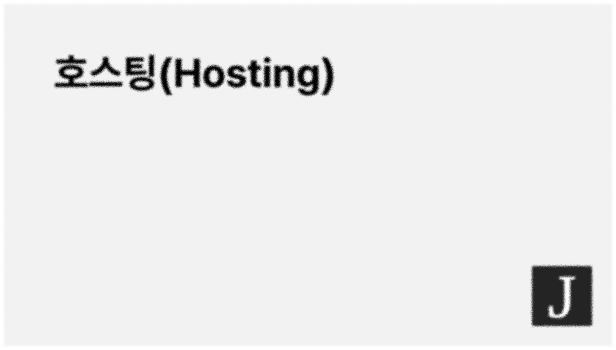
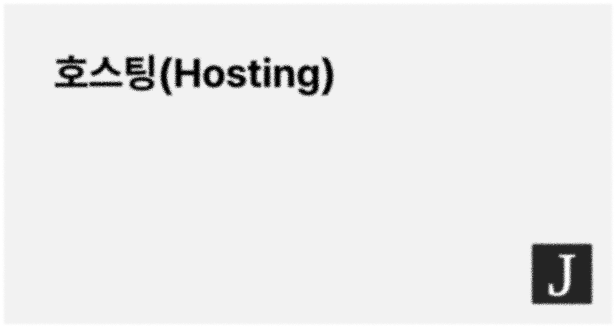
fix: 썸네일 이미지 크기 수정

Changed region(s): [[0.0617, 0.1524, 0.5552, 0.3049], [0.8636, 0.7317, 0.987, 0.8232], [0.8636, 0.8537, 0.9562, 0.9451]]

diff --git a/dist-server/entry-server.js b/dist-server/entry-server.js
@@ -1,7 +1,7 @@
 import { renderToString } from "react-dom/server";
-import { Link, NavLink, Outlet, RouterProvider, createMemoryRouter, useLocation, useParams } from "react-router";
+import { Link, NavLink, Outlet, RouterProvider, createMemoryRouter, useParams } from "react-router";
 import { Fragment, jsx, jsxs } from "react/jsx-runtime";
-import { useLayoutEffect, useMemo, useState } from "react";
+import { useMemo, useState } from "react";
 import ReactMarkdown from "react-markdown";
 import rehypeHighlight from "rehype-highlight";
 //#region src/components/layout/Footer.tsx
@@ -66,20 +66,8 @@ function RootLayout() {
 	] });
 }
 //#endregion
-//#region content/javascript/js-closure.md?raw
-var js_closure_default = "---\r\ntitle: 클로저(Closure) 정리\r\ndescription: 자바스크립트 클로저 개념 이해\r\ndate: 2026-04-01\r\ncategory: javascript\r\nslug: js-closure\r\nthumbnail: /thumbnails/use-memo.png\r\n---\r\n\r\n## 클로저란?\r\n\r\n클로저는 함수가 선언될 당시의 외부 변수를 기억하는 개념이다.\r\n\r\n## 예시\r\n\r\n```js\r\nfunction outer() {\r\n  let count = 0;\r\n\r\n  return function inner() {\r\n    count++;\r\n    return count;\r\n  };\r\n}\r\n\r\nconst counter = outer();\r\nconsole.log(counter()); // 1\r\nconsole.log(counter()); // 2";
-//#endregion
-//#region content/nextjs/next-routing.md?raw
-var next_routing_default = "---\r\ntitle: Next.js 라우팅 구조\r\ndescription: Next.js App Router 기반 라우팅 구조 이해\r\ndate: 2026-04-02\r\ncategory: nextjs\r\nslug: next-routing\r\nthumbnail: /thumbnails/use-memo.png\r\n---\r\n\r\n## App Router란?\r\n\r\nNext.js의 App Router는 파일 기반 라우팅 시스템이다.\r\n\r\n## 구조\r\n\r\n```txt\r\napp/\r\n  page.tsx        → /\r\n  blog/\r\n    page.tsx      → /blog\r\n```\r\n\r\n## 특징\r\n\r\n- 파일 기반 라우팅\r\n- 서버 컴포넌트 지원\r\n- 레이아웃 분리 가능\r\n\r\n## 정리\r\n\r\nApp Router는 기존보다 더 직관적인 구조를 제공한다.";
-//#endregion
-//#region content/react/use-memo.md?raw
-var use_memo_default = "---\r\ntitle: useMemo 정리\r\ndescription: useMemo의 개념과 언제 사용하면 좋은지 정리한 글\r\ndate: 2026-04-01\r\ncategory: react\r\nslug: use-memo\r\nthumbnail: /thumbnails/use-memo.png\r\n---\r\n\r\n![browser rendering](/thumbnails/use-memo.png)\r\n\r\n## useMemo란?\r\n\r\nuseMemo는 계산 결과를 메모이제이션하는 React Hook이다.\r\n\r\n### 기본 문법\r\n\r\n```tsx\r\nconst memoizedValue = useMemo(() => {\r\n  return computeExpensiveValue(a, b);\r\n}, [a, b]);\r\n```\r\n\r\n### 정리\r\n\r\n무조건 사용하는 것이 아니라,\r\n계산 비용이 크거나 참조 안정성이 중요할 때 고려하는 것이 좋다.\r\n\r\n이 단계에서는 아직 이 파일을 앱에서 읽지 않아도 괜찮아.  \r\n일단 **파일 형식 자체를 먼저 정하는 것**이 중요해.\r\n\r\n## B. `mockNotes.ts` 데이터도 이 형식에 맞춰 의식적으로 유지하기\r\n\r\n예를 들면 지금 mock 데이터도 최대한 markdown 파일 구조랑 비슷하게 생각하면 좋아.\r\n\r\n```ts\r\n{\r\n  title,\r\n  description,\r\n  category,\r\n  date,\r\n  slug,\r\n  content\r\n}\r\n```\r\n\r\n---\r\n\r\n> 즉 나중에 markdown 파일을 읽어오면 결국 이 객체 모양으로 바뀌어 들어올 거라고 생각하면 돼.";
-//#endregion
-//#region content/typescript/ts-basic.md?raw
-var ts_basic_default = "---\r\ntitle: TypeScript 기본 타입\r\ndescription: TypeScript의 기본 타입 정리\r\ndate: 2026-03-30\r\ncategory: typescript\r\nslug: ts-basic\r\nthumbnail: /thumbnails/use-memo.png\r\n---\r\n\r\n## TypeScript란?\r\n\r\nTypeScript는 JavaScript에 타입을 추가한 언어이다.\r\n\r\n## 기본 타입\r\n\r\n```ts\r\nlet name: string = \"Junn\";\r\nlet age: number = 30;\r\nlet isActive: boolean = true;\r\n```\r\n\r\n## 장점\r\n\r\n- 타입 안정성\r\n- 코드 가독성 향상\r\n- 유지보수 용이\r\n\r\n## 정리\r\n\r\nTypeScript는 규모가 커질수록 더 큰 장점을 가진다.";
-//#endregion
-//#region content/web/browser-rendering.md?raw
-var browser_rendering_default = "---\r\ntitle: 브라우저 렌더링 과정\r\ndescription: 브라우저가 화면을 그리는 과정 정리\r\ndate: 2026-03-28\r\ncategory: web\r\nslug: browser-rendering\r\nthumbnail: /thumbnails/use-memo.png\r\n---\r\n\r\n## 렌더링 과정\r\n\r\n브라우저는 HTML, CSS를 파싱하여 화면을 그린다.\r\n\r\n## 흐름\r\n\r\n1. HTML 파싱 → DOM 생성\r\n2. CSS 파싱 → CSSOM 생성\r\n3. Render Tree 생성\r\n4. Layout\r\n5. Paint\r\n\r\n## 왜 중요한가?\r\n\r\n렌더링 과정을 이해하면 성능 최적화에 도움이 된다.\r\n\r\n## 정리\r\n\r\n렌더링 과정은 웹 성능의 핵심이다.";
+//#region content/web/hosting.md?raw
+var hosting_default = "---\r\ntitle: 호스팅(Hosting)이란 무엇인가\r\ndescription: 웹 호스팅의 개념과 역할, 그리고 다양한 호스팅 방식에 대한 정리\r\ndate: 2026-04-10\r\ncategory: web\r\nslug: hosting\r\nthumbnail: /thumbnails/hosting.png\r\n---\r\n\r\n![호스팅(Hosting)](/thumbnails/hosting.png)\r\n\r\n## 호스팅(Hosting)\r\n\r\n호스팅은 웹사이트 또는 애플리케이션을 인터넷에서 접근 가능하도록 서버에 저장하고 제공하는 서비스다.\r\n\r\n개발자가 만든 웹사이트는 기본적으로 로컬 컴퓨터에 존재하므로 외부에서 접근할 수 없고, 24시간 켜져 있지도 않다. 반면, 서버는 항상 켜져 있는 특징이 있다. 따라서 웹사이트를 서비스하려면 인터넷에 연결된 서버 컴퓨터에 파일들을 올려야 한다.\r\n\r\n즉, 사용자가 브라우저를 통해 요청을 보냈을 때 그 요청에 응답할 수 있는 파일이 위치한 곳이 서버이며, 이 서버 공간을 제공하는게 호스팅이다.\r\n\r\n### 호스팅의 핵심 역할\r\n\r\n호스팅은 단순히 파일을 저장하는 것이 아니라, 다음과 같은 역할을 수행한다.\r\n\r\n#### 파일 저장 및 제공\r\n\r\nHTML, CSS, JS, 이미지 파일 등을 저장하고 사용자가 브라우저에서 요청을 보내면 해당 파일을 반환한다.\r\n\r\n#### 서버 실행 환경 제공\r\n\r\n사용자의 요청(로그인, 검색 등)을 처리할 수 있는 컴퓨팅 엔진(CPU, 메모리 등)이 돌아가는 환경을 제공하여 프로그램이 실제로 동작하게 만든다.\r\n\r\n#### 데이터베이스 연결\r\n\r\n많은 서비스들은 사용자의 정보, 게시글 등 데이터를 다룬다. 호스팅은 이런 데이터들을 자체 제공하기도 하지만 데이터의 양이 방대해지면 호스팅 서버와 데이터베이스 서버를 분리해서 사용할 수도 있다. 이 데이터베이스와 프로그램이 원활하게 대화할 수 있도록 연결하고 관리한다.\r\n\r\n#### 네트워크 및 보안 처리\r\n\r\n호스팅 서비스는 아래와 같은 인프라 관리를 대신해준다.\r\n\r\n- 보안 통신 (HTTPS/SSL)\r\n  \r\n  데이터 전송 시 암호화를 적용하는 SSL 인증서 설정을 관리하여 사용자 정보를 안전하게 보호해준다.\r\n\r\n- 접근 제어 (방화벽)\r\n  \r\n  허가되지 않은 비정상적인 접근을 차단하여 서버 내부의 데이터를 안전하게 지켜준다.\r\n\r\n- 공격 방어 (DDoS 방어)\r\n  \r\n  서버를 마비시키기 위해 대량의 가짜 트래픽을 보내는 DDoS 공격을 감지하고 차단한다.\r\n\r\n- 데이터 흐름 관리 (트래픽 처리)\r\n  \r\n  사용자가 몰릴 때 데이터 전송이 원활하게 이루어지도록 네트워크 대역폭을 조절하고 최적화한다.\r\n\r\n### 호스팅 종류\r\n\r\n#### 웹호스팅 (공유 호스팅)\r\n\r\n여러 웹사이트가 하나의 서버 자원(컴퓨팅 엔진(CPU, 메모리 등))을 함께 사용하는 방식이다.\r\n\r\n- 장점 : 비용이 매우 저렴하고 초보자도 쉽게 사용할 수 있다.\r\n\r\n- 단점 : 다른 사이트의 트래픽 급증 시 내 사이트도 느려질 수 있다.\r\n\r\n- 적합한 경우 : 소규모 블로그, 개인 포트폴리오, 초기 프로젝트\r\n\r\n#### 전용 호스팅 (서버 호스팅)\r\n\r\n서버 전체를 단독으로 사용하는 방식이다.\r\n\r\n- 장점 : 성능과 보안이 안정적이며, 서버 설정을 자유롭게 구성할 수 있다.\r\n\r\n- 단점 : 비용이 상대적으로 높고 직접 유지보수를 해야 한다.\r\n\r\n- 적합한 경우 : 백엔드 서버 운영, 대규모 트래픽 서비스, 금융·의료 등 높은 보안 요구 서비스\r\n\r\n#### 클라우드 호스팅\r\n\r\n클라우드 호스팅은 여러 서버를 하나의 인프라처럼 사용하여 유연하게 확장 가능한 방식이다.\r\n\r\n- 장점 : 트래픽에 따라 자원을 유연하게 확장/축소 가능하다.\r\n\r\n- 단점 : 사용량에 따라 비용 예측이 어려울 수 있다.\r\n\r\n- 적합한 경우 : 트래픽 변동이 큰 서비스, 스타트업, 엔터프라이즈\r\n\r\n#### 서버리스 호스팅\r\n\r\n서버리스 호스팅이란 서버를 직접 관리하지 않고, 요청이 발생할 때만 함수 단위로 코드를 실행하는 호스팅 방식이다.\r\n\r\n- 장점 : 배포가 매우 간편하며, 서버 관리 및 설정 등 복잡한 인프라 지식 없이도 바로 서비스를 운영할 수 있다.\r\n\r\n- 단점 : 오랫동안 호출되지 않다가 다시 실행될 때 발생하는 약간의 지연 시간으로 인한 초기 지연이 발생할 수 있고, 실행 시간 제한 및 서버 환경에 대한 제어가 제한적이다.\r\n\r\n- 적합한 경우 : Next.js 같은 프레임워크 기반 서비스, 간단한 API 서버, 이벤트 기반 처리";
 //#endregion
 //#region src/lib/notes.ts
 var categories$3 = [
@@ -106,13 +94,7 @@ function isNoteCategory$2(value) {
 *        "/content/javascript/array-map.md": "markdown 전체 문자열"
 *      }
 */
-var noteFiles = /* @__PURE__ */ Object.assign({
-	"/content/javascript/js-closure.md": js_closure_default,
-	"/content/nextjs/next-routing.md": next_routing_default,
-	"/content/react/use-memo.md": use_memo_default,
-	"/content/typescript/ts-basic.md": ts_basic_default,
-	"/content/web/browser-rendering.md": browser_rendering_default
-});
+var noteFiles = /* @__PURE__ */ Object.assign({ "/content/web/hosting.md": hosting_default });
 /**
 * frontmatter 한 줄을 파싱하는 함수
 * 
@@ -212,131 +194,6 @@ function getNoteByCategoryAndSlug(category, slug) {
 	return getAllNoteDetails().find((note) => note.category === category && note.slug === slug);
 }
 //#endregion
-//#region src/components/common/PageMeta.tsx
-var SITE_NAME$1 = "junn.dev";
-var SITE_URL$1 = "https://junn.dev";
-var DEFAULT_OG_IMAGE$1 = "/og-image.png";
-function upsertMeta(selector, create, update) {
-	let element = document.head.querySelector(selector);
-	if (!element) {
-		element = create();
-		document.head.appendChild(element);
-	}
-	update(element);
-}
-function PageMeta({ title, description, path = "/", image = DEFAULT_OG_IMAGE$1, type = "website" }) {
-	const fullTitle = title === SITE_NAME$1 ? SITE_NAME$1 : `${title} | ${SITE_NAME$1}`;
-	const canonicalUrl = `${SITE_URL$1}${path}`;
-	const imageUrl = `${SITE_URL$1}${image}`;
-	useLayoutEffect(() => {
-		document.title = fullTitle;
-		upsertMeta("link[rel=\"canonical\"]", () => {
-			const link = document.createElement("link");
-			link.setAttribute("rel", "canonical");
-			return link;
-		}, (el) => {
-			el.setAttribute("href", canonicalUrl);
-		});
-		const metaEntries = [
-			[
-				"meta[name=\"description\"]",
-				"name",
-				"description"
-			],
-			[
-				"meta[name=\"theme-color\"]",
-				"name",
-				"theme-color"
-			],
-			[
-				"meta[property=\"og:type\"]",
-				"property",
-				"og:type"
-			],
-			[
-				"meta[property=\"og:title\"]",
-				"property",
-				"og:title"
-			],
-			[
-				"meta[property=\"og:description\"]",
-				"property",
-				"og:description"
-			],
-			[
-				"meta[property=\"og:url\"]",
-				"property",
-				"og:url"
-			],
-			[
-				"meta[property=\"og:image\"]",
-				"property",
-				"og:image"
-			],
-			[
-				"meta[property=\"og:locale\"]",
-				"property",
-				"og:locale"
-			],
-			[
-				"meta[property=\"og:site_name\"]",
-				"property",
-				"og:site_name"
-			],
-			[
-				"meta[name=\"twitter:card\"]",
-				"name",
-				"twitter:card"
-			],
-			[
-				"meta[name=\"twitter:title\"]",
-				"name",
-				"twitter:title"
-			],
-			[
-				"meta[name=\"twitter:description\"]",
-				"name",
-				"twitter:description"
-			],
-			[
-				"meta[name=\"twitter:image\"]",
-				"name",
-				"twitter:image"
-			]
-		];
-		const values = {
-			description,
-			"theme-color": "#242424",
-			"og:type": type,
-			"og:title": fullTitle,
-			"og:description": description,
-			"og:url": canonicalUrl,
-			"og:image": imageUrl,
-			"og:locale": "ko_KR",
-			"og:site_name": SITE_NAME$1,
-			"twitter:card": "summary_large_image",
-			"twitter:title": fullTitle,
-			"twitter:description": description,
-			"twitter:image": imageUrl
-		};
-		for (const [selector, attrName, attrValue] of metaEntries) upsertMeta(selector, () => {
-			const meta = document.createElement("meta");
-			meta.setAttribute(attrName, attrValue);
-			return meta;
-		}, (el) => {
-			el.setAttribute(attrName, attrValue);
-			el.setAttribute("content", values[attrValue]);
-		});
-	}, [
-		fullTitle,
-		description,
-		canonicalUrl,
-		imageUrl,
-		type
-	]);
-	return null;
-}
-//#endregion
 //#region src/pages/HomePage.tsx
 var categoryLabelMap$3 = {
 	javascript: "JavaScript",
@@ -347,11 +204,7 @@ var categoryLabelMap$3 = {
 	ai: "AI"
 };
 function HomePage() {
-	return /* @__PURE__ */ jsxs(Fragment, { children: [/* @__PURE__ */ jsx(PageMeta, {
-		title: "junn.dev",
-		description: "프론트엔드 개발자로 성장하기 위해 JavaScript, TypeScript, React, Next.js, Web, AI 관련 학습 내용을 기록합니다.",
-		path: "/"
-	}), /* @__PURE__ */ jsxs("section", {
+	return /* @__PURE__ */ jsxs("section", {
 		className: "home",
 		children: [
 			/* @__PURE__ */ jsx("h2", {
@@ -446,7 +299,7 @@ function HomePage() {
 				})]
 			})
 		]
-	})] });
+	});
 }
 //#endregion
 //#region src/components/notes/NoteFilter.tsx
@@ -530,11 +383,7 @@ function NotesPage() {
 		if (selectedCategory === "all") return getAllNotes();
 		return getNotesByCategory(selectedCategory);
 	}, [selectedCategory]);
-	return /* @__PURE__ */ jsxs(Fragment, { children: [/* @__PURE__ */ jsx(PageMeta, {
-		title: "Notes",
-		description: "JavaScript, TypeScript, React, Next.js, Web, AI 관련 학습 내용을 정리한 노트 목록 페이지입니다.",
-		path: "/notes"
-	}), /* @__PURE__ */ jsxs("section", {
+	return /* @__PURE__ */ jsxs("section", {
 		className: "notes",
 		children: [
 			/* @__PURE__ */ jsx("h2", {
@@ -548,7 +397,7 @@ function NotesPage() {
 			}),
 			/* @__PURE__ */ jsx(NoteList, { notes: filteredNotes })
 		]
-	})] });
+	});
 }
 //#endregion
 //#region src/pages/NoteDetailPage.tsx
@@ -573,11 +422,7 @@ function isNoteCategory$1(value) {
 }
 function NoteDetailPage() {
 	const { category, slug } = useParams();
-	if (!category || !slug) return /* @__PURE__ */ jsxs(Fragment, { children: [/* @__PURE__ */ jsx(PageMeta, {
-		title: "잘못된 접근",
-		description: "잘못된 경로로 접근한 페이지입니다.",
-		path: "/notes"
-	}), /* @__PURE__ */ jsxs("section", {
+	if (!category || !slug) return /* @__PURE__ */ jsxs("section", {
 		className: "invalid-access",
 		children: [/* @__PURE__ */ jsx("h1", {
 			className: "invalid-access__title",
@@ -587,12 +432,8 @@ function NoteDetailPage() {
 			className: "back-link",
 			children: "← 목록으로 돌아가기"
 		})]
-	})] });
-	if (!isNoteCategory$1(category)) return /* @__PURE__ */ jsxs(Fragment, { children: [/* @__PURE__ */ jsx(PageMeta, {
-		title: "유효하지 않은 카테고리",
-		description: "유효하지 않은 카테고리 경로입니다.",
-		path: "/notes"
-	}), /* @__PURE__ */ jsxs("section", {
+	});
+	if (!isNoteCategory$1(category)) return /* @__PURE__ */ jsxs("section", {
 		className: "invalid-category",
 		children: [
 			/* @__PURE__ */ jsx("h1", {
@@ -609,13 +450,9 @@ function NoteDetailPage() {
 				children: "← 목록으로 돌아가기"
 			})
 		]
-	})] });
+	});
 	const note = getNoteByCategoryAndSlug(category, slug);
-	if (!note) return /* @__PURE__ */ jsxs(Fragment, { children: [/* @__PURE__ */ jsx(PageMeta, {
-		title: "존재하지 않은 노트",
-		description: "요청한 게시글을 찾을 수 없습니다.",
-		path: "/notes"
-	}), /* @__PURE__ */ jsxs("section", {
+	if (!note) return /* @__PURE__ */ jsxs("section", {
 		className: "note-empty",
 		children: [
 			/* @__PURE__ */ jsx("h1", {
@@ -632,14 +469,8 @@ function NoteDetailPage() {
 				children: "← 목록으로 돌아가기"
 			})
 		]
-	})] });
-	return /* @__PURE__ */ jsxs(Fragment, { children: [/* @__PURE__ */ jsx(PageMeta, {
-		title: note.title,
-		description: note.description,
-		path: `/notes/${note.category}/${note.slug}`,
-		image: note.thumbnail,
-		type: "article"
-	}), /* @__PURE__ */ jsx("section", {
+	});
+	return /* @__PURE__ */ jsx("section", {
 		className: "note-detail",
 		children: /* @__PURE__ */ jsxs("article", {
 			className: "note-detail__article",
@@ -669,16 +500,12 @@ function NoteDetailPage() {
 				})
 			]
 		})
-	})] });
+	});
 }
 //#endregion
 //#region src/pages/NotFoundPage.tsx
 function NotFoundPage() {
-	return /* @__PURE__ */ jsxs(Fragment, { children: [/* @__PURE__ */ jsx(PageMeta, {
-		title: "404 Not Found",
-		description: "요청한 페이지를 찾을 수 없습니다.",
-		path: useLocation().pathname
-	}), /* @__PURE__ */ jsxs("section", {
+	return /* @__PURE__ */ jsxs("section", {
 		className: "not-found",
 		children: [
 			/* @__PURE__ */ jsx("p", {
@@ -706,7 +533,7 @@ function NotFoundPage() {
 				})]
 			})
 		]
-	})] });
+	});
 }
 //#endregion
 //#region src/app/routes.tsx

diff --git a/src/styles/home.css b/src/styles/home.css
@@ -27,6 +27,7 @@
   .home-notes__recent-item {
     list-style: circle;
     list-style-type: circle;
+    list-style-position: outside;
 
     .home-notes__recent-inner {
       display: flex;

diff --git a/src/styles/notes.css b/src/styles/notes.css
@@ -206,7 +206,6 @@
 .markdown-body img {
   display: block;
   max-width: 100%;
-  border-radius: 0.75rem;
 }
 
 .markdown-body table {
